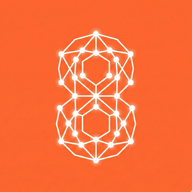
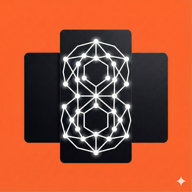
Update branding assets and OG image for link previews
- Add og-image.png screenshot of homepage (1200x630)
- Update logo and icons from new v1 design
- Add openGraph and twitter image metadata to layout
- Add apple-touch-icon and favicon-32

🤖 Generated with [Claude Code](https://claude.com/claude-code)

diff --git a/app/layout.tsx b/app/layout.tsx
@@ -57,12 +57,21 @@ export const metadata: Metadata = {
     siteName: 'ID8Labs',
     title: 'ID8Labs - Professional Tools for the AI Era',
     description: 'AI tools for creators and builders. Claude Code training, Composer, DeepStack, and more.',
+    images: [
+      {
+        url: '/og-image.png',
+        width: 1200,
+        height: 630,
+        alt: 'ID8Labs - Tools for creators. Infrastructure for builders.',
+      },
+    ],
   },
   twitter: {
     card: 'summary_large_image',
     title: 'ID8Labs - Professional Tools for the AI Era',
     description: 'AI tools for creators and builders. Claude Code training, Composer, DeepStack, and more.',
     creator: '@eddiebe147',
+    images: ['/og-image.png'],
   },
   robots: {
     index: true,
@@ -91,7 +100,8 @@ export default function RootLayout({
       <head>
         <link rel="manifest" href="/manifest.json" />
         <meta name="theme-color" content="#FF6B35" />
-        <link rel="apple-touch-icon" href="/icon-192.png" />
+        <link rel="apple-touch-icon" href="/apple-touch-icon.png" />
+        <link rel="icon" type="image/png" sizes="32x32" href="/favicon-32.png" />
         <meta name="apple-mobile-web-app-capable" content="yes" />
         <meta name="apple-mobile-web-app-status-bar-style" content="black-translucent" />
       </head>
